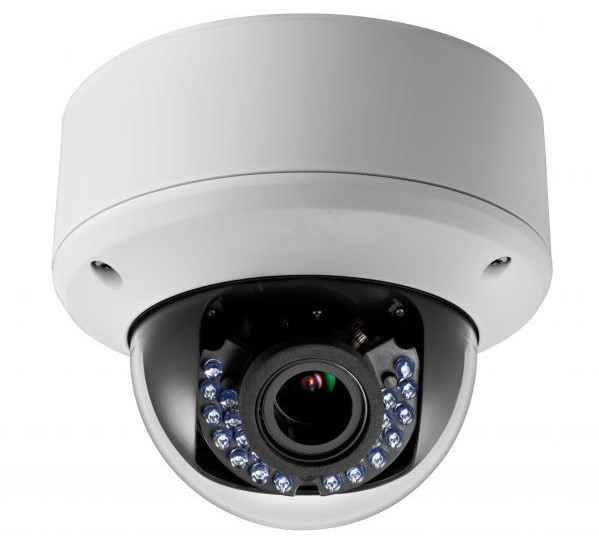
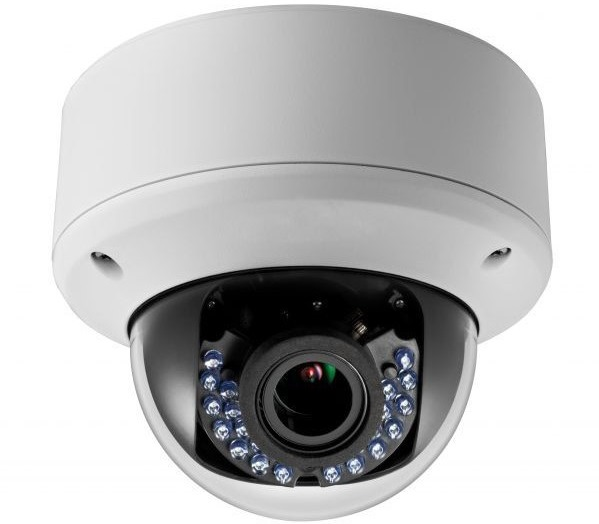
solar energy page

diff --git a/css/style.css b/css/style.css
@@ -21,6 +21,7 @@
   --secondary-color:#5656f1;
   --accent-color:#214700;
   --plain-color:#eee3f8;
+  --text-color: #000811;
   --bg-color:#ffffff;
   --accent-color2:#ffc93c;
 }
@@ -30,6 +31,7 @@
   --secondary-color:#8f8fec;
   --accent-color:#214700;
   --plain-color:#eee3f8;
+  --text-color: #eeeeee;
   --bg-color:#002147;
   --accent-color2:#ffc93c;
 }
@@ -787,7 +789,7 @@ header img{
 /* footer starts here */
 
 footer{
-  background-color: var(--primary-color);
+  background-color: #002147;
   padding:2rem 4rem;
 }
 
@@ -1214,6 +1216,9 @@ input::placeholder {
 /***************************/
 
 /* CCTV services page starts here */
+.hero.cctv{
+  background-image: url(/images/cctvbg.jpg);
+}
 
 /* keep an eye section starts here */
 .keep-eye{
@@ -1246,7 +1251,7 @@ input::placeholder {
  color: var(--primary-color);
  font-size: var(--h2font-size);
  font-weight: var(--h2font-weight);
- padding-block-end: 1.5rem;
+ padding-block-end: 2.5rem;
 }
 /* keep an eye section starts here */
 
@@ -1269,7 +1274,7 @@ input::placeholder {
   width: 40%;
   margin: auto;
   position: absolute;
-  bottom: 60%;
+  top: -4rem;
   right: 30%;
   margin: auto; 
   border-radius: 50%;
@@ -1301,6 +1306,7 @@ input::placeholder {
 
 /* camera types section starts here */
 .camera-types{
+  background-color: #f3f3f3;
   padding: 3rem;
 }
 
@@ -1325,8 +1331,9 @@ input::placeholder {
   display: flex;
   align-items: center;
   gap: 1rem;
-  background-color: var(--primary-color);
+  background-color: #002147;
   border-radius: 20px;
+  min-height: 20vh;
   box-shadow: 8px 8px 8px rgba(0, 0, 0, 0.2);
   transition: transform 0.5s ease;
 }
@@ -1351,7 +1358,7 @@ input::placeholder {
 /* who we install for section starts here */
 .install, .sample-packages{
   padding: 3rem;
-  background-color: var(--primary-color);
+  background-color: #002147;
 }
 
 .install h2, .sample-packages h2{
@@ -1517,6 +1524,10 @@ input::placeholder {
     width: 90%;
   }
 
+  .camera-card .camera-img, .sample-card a h3{
+    width: 70%;
+  }
+
   .footer-content{
     flex-wrap: wrap;
   }
@@ -1527,7 +1538,7 @@ input::placeholder {
   gap: 3rem;
 }
 
-.who-we-are{
+.who-we-are, .keep-eye, .camera-card{
   flex-direction: column;
 }
 
@@ -1540,7 +1551,7 @@ flex-direction: column;
   gap: 2rem;
 }
 
-.what-cards{
+.what-cards, .work-with-cards, .sample-container{
   grid-template-columns: repeat(2, 1fr);
   gap: 2rem;
 }
@@ -1558,10 +1569,10 @@ flex-direction: column;
   width: 10rem;
 }
 
-.work-with-cards{
+.ss-container{
   grid-template-columns: repeat(2, 1fr);
-  gap: 2rem;
 }
+
 }
 
 @media (max-width: 768px) {
@@ -1611,8 +1622,7 @@ flex-direction: column;
 
   .services{
   padding:2rem 4rem;
-}
-
+ }
 
   .services-text p, .services h2{
     text-align: center;
@@ -1629,15 +1639,15 @@ flex-direction: column;
   gap: 3rem;
 }
 
-  .service-cards{
+  .service-cards, .camera-container, .what-cards, .work-with-cards{
   grid-template-columns: repeat(1, 1fr);
 }
 
-  .work-cards, .testimonials{
+  .work-cards, .testimonials, .install-cards {
     width: 80%;
   }
 
-  .carousel-cell {
+  .carousel-cell{
   width: 40%;
 }
 
@@ -1654,7 +1664,7 @@ flex-direction: column;
   width: 100%;
 }
 
-form, .who-we-are-text div{
+form, .who-we-are-text div, .install-container{
   flex-direction: column;
 }
 
@@ -1674,11 +1684,18 @@ form, .who-we-are-text div{
   font-size: 1rem;
 }
 
-.what-cards, .work-with-cards{
-  grid-template-columns: repeat(1, 1fr);
-}
-
 .who-we-are img{
   height: 30vh;
 }
+}
+
+@media (max-width: 620px) {
+ .sample-container, .ss-container{
+  grid-template-columns: repeat(1, 1fr);
+ }
+
+ .ss-content{
+  min-height: 100%;
+  padding-block-start: 11rem;
+ }
 }

diff --git a/solar.html b/solar.html
@@ -157,7 +157,7 @@ failing network systems.
     </section>
 
     <section class="camera-types">
-      <h2>Camera Types We Offer</h2>
+      <h2>Devices & Brands We Work With</h2>
       <div class="camera-container">
         <div class="camera-card">
           <div class="camera-img bulletcam"><img src="./images/bulletcam.jpg" alt="bullet camera"></div>
@@ -201,7 +201,7 @@ backup</p>
     </section>
 
     <section class="install">
-      <h2>Who We Install For</h2>
+      <h2>Who Needs This?</h2>
       <div class="install-container">
         <div class="install-cards">
           <span><i class="fa-solid fa-house"></i></span>
@@ -232,33 +232,33 @@ backup</p>
       </div>
       <div class="what-cards">
         <div class="what-card">
-          <span><i class="fa-solid fa-wrench"></i></span>
+          <span><i class="fa-solid fa-diagram-project"></i></span>
           <h3>Proper planning for signal
 distribution and future
 expansion</h3>
         </div>
         <div class="what-card">
-          <span><i class="fa-solid fa-earth-africa"></i></span
+          <span><i class="fa-solid fa-network-wired"></i></span
           ><h3>Neat, concealed wiring and
 professional setup</h3>
         </div>
         <div class="what-card">
-          <span><i class="fa-solid fa-award"></i></span
+          <span><i class="fa-solid fa-gear"></i></span
           ><h3>Brands and devices that
 match your use case</h3>
         </div>
         <div class="what-card">
-          <span><i class="fa-solid fa-camera-retro"></i></span
+          <span><i class="fa-solid fa-arrows-up-down"></i></span
           ><h3>Scalable configurations for
 growing teams</h3>
         </div>
         <div class="what-card">
-          <span><i class="fa-solid fa-shield"></i></span
+          <span><i class="fa-solid fa-headset"></i></span
           ><h3>Fast response and technical
 support</h3>
         </div>
         <div class="what-card">
-          <span><i class="fa-solid fa-people-arrows"></i></span
+          <span><i class="fa-solid fa-right-to-bracket"></i></span
           ><h3>Cross integration with your
 CCTV or solar system if
 needed</h3>
